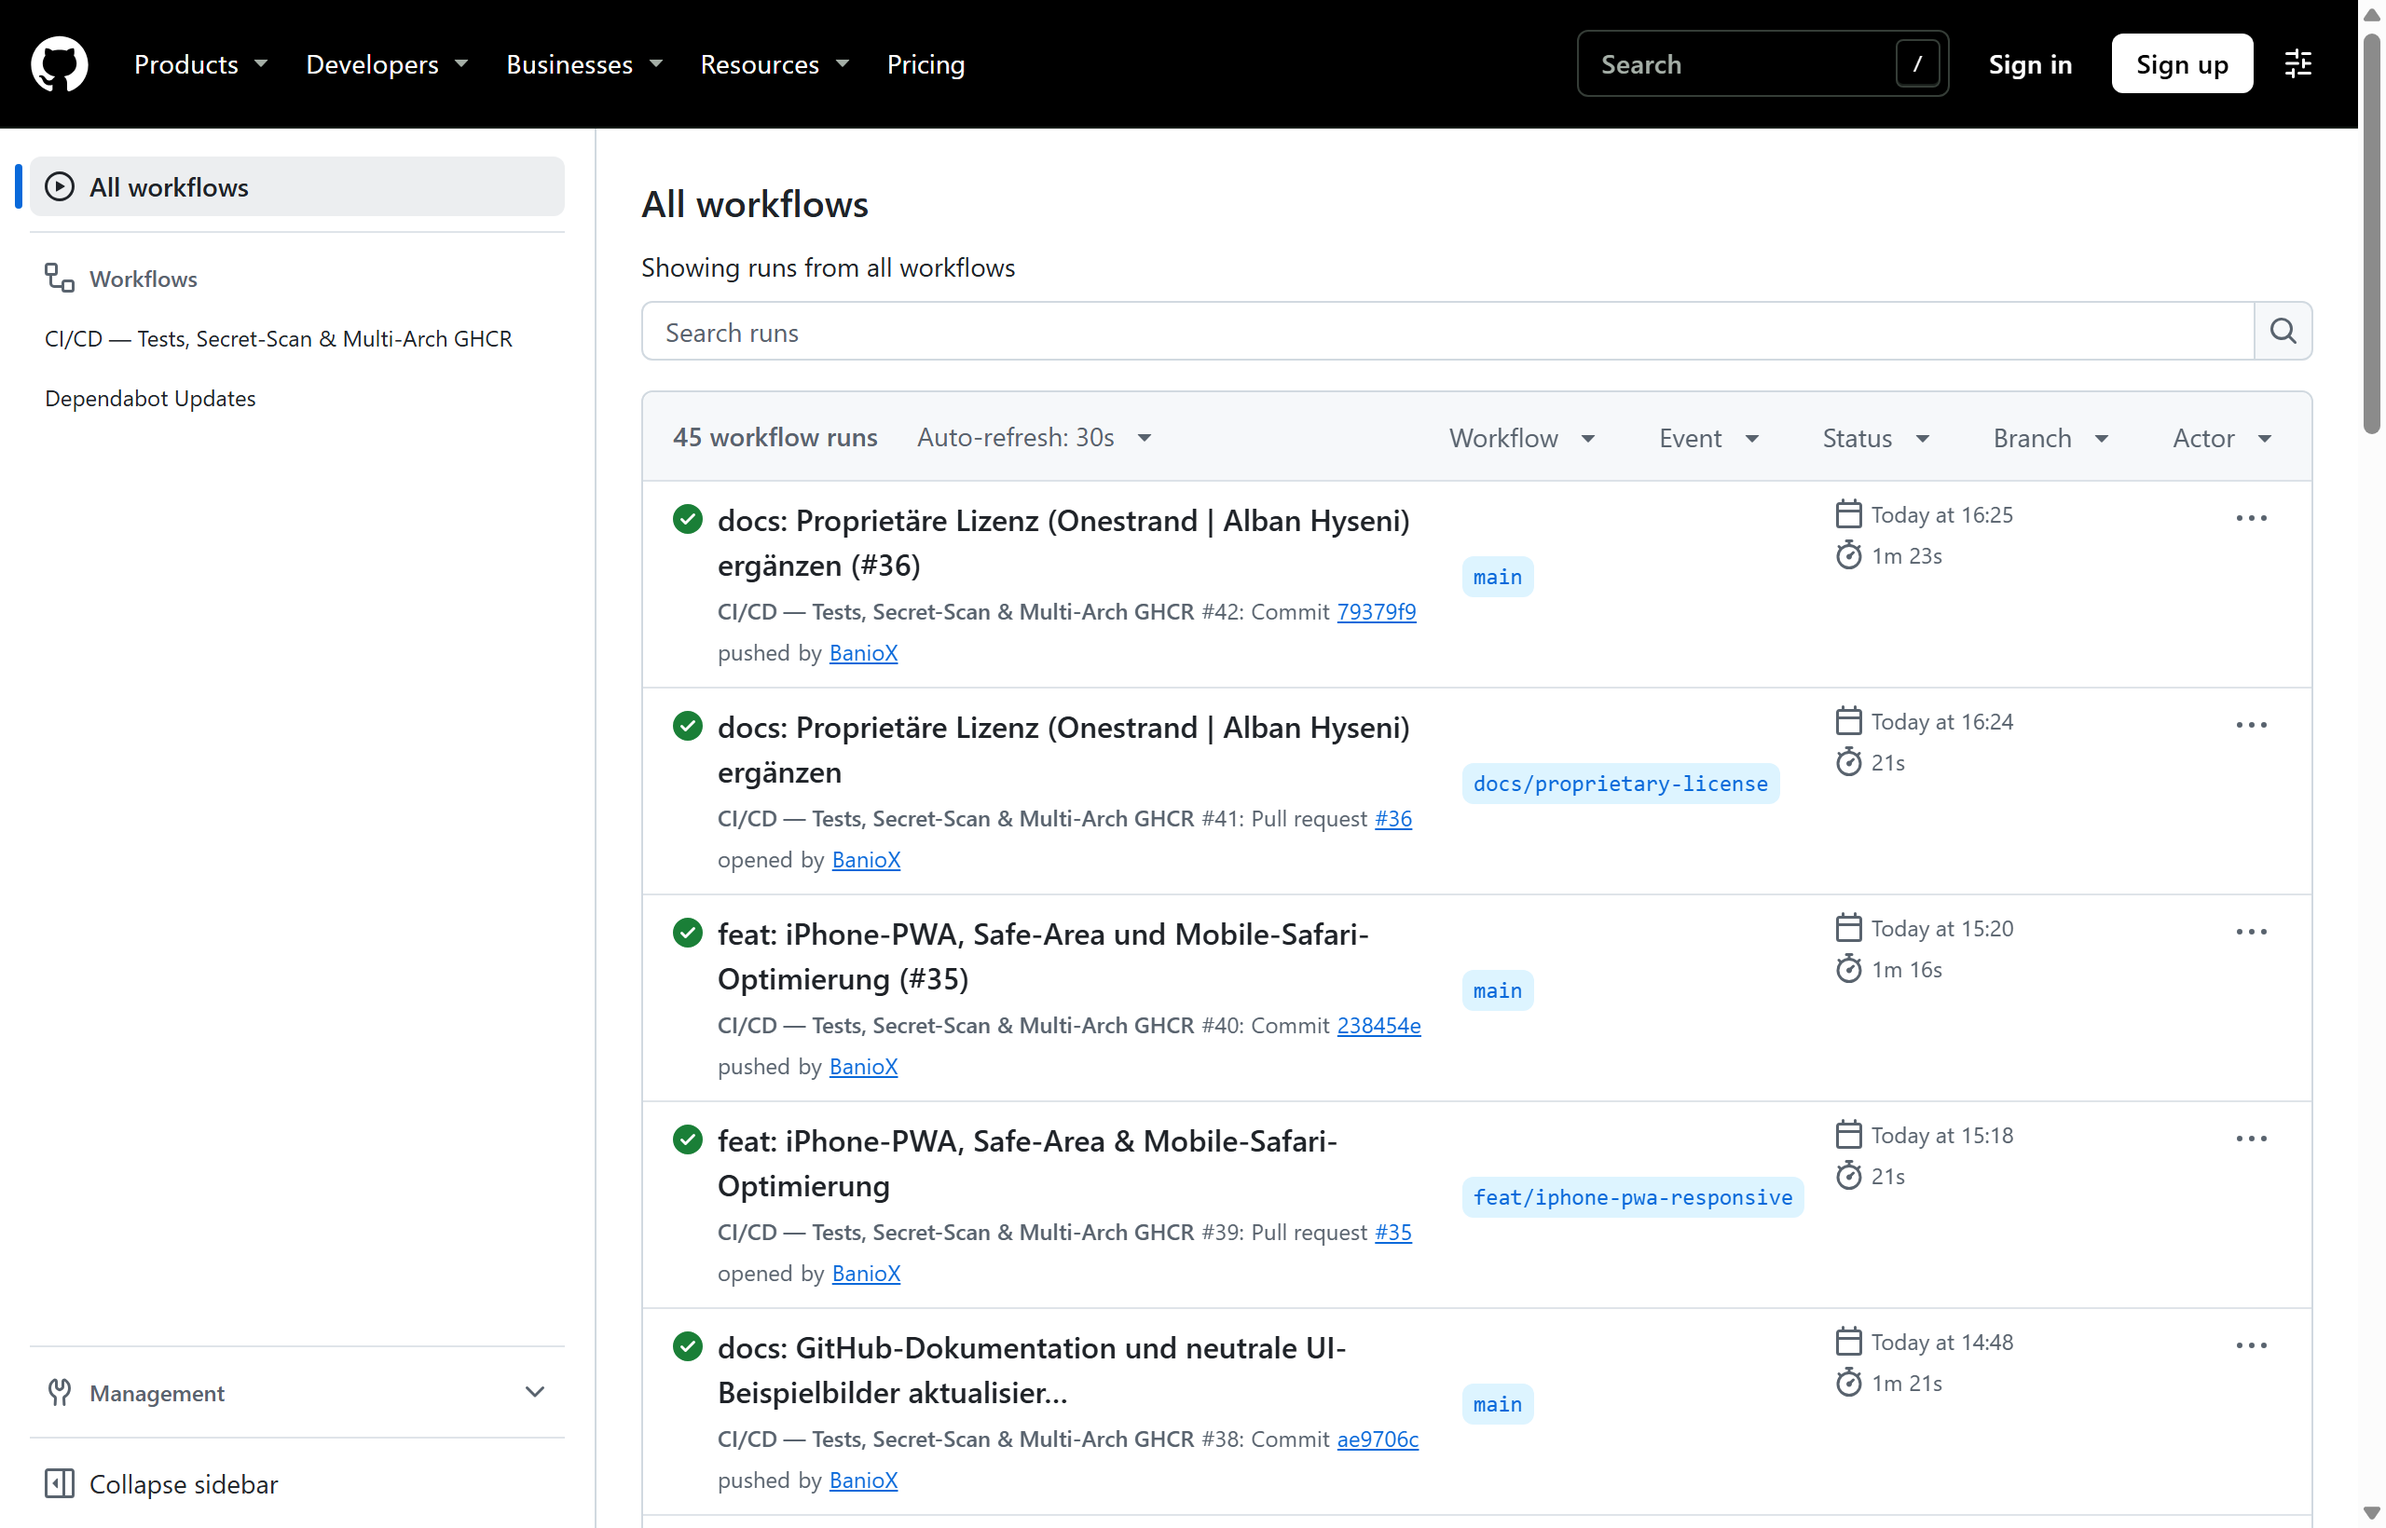
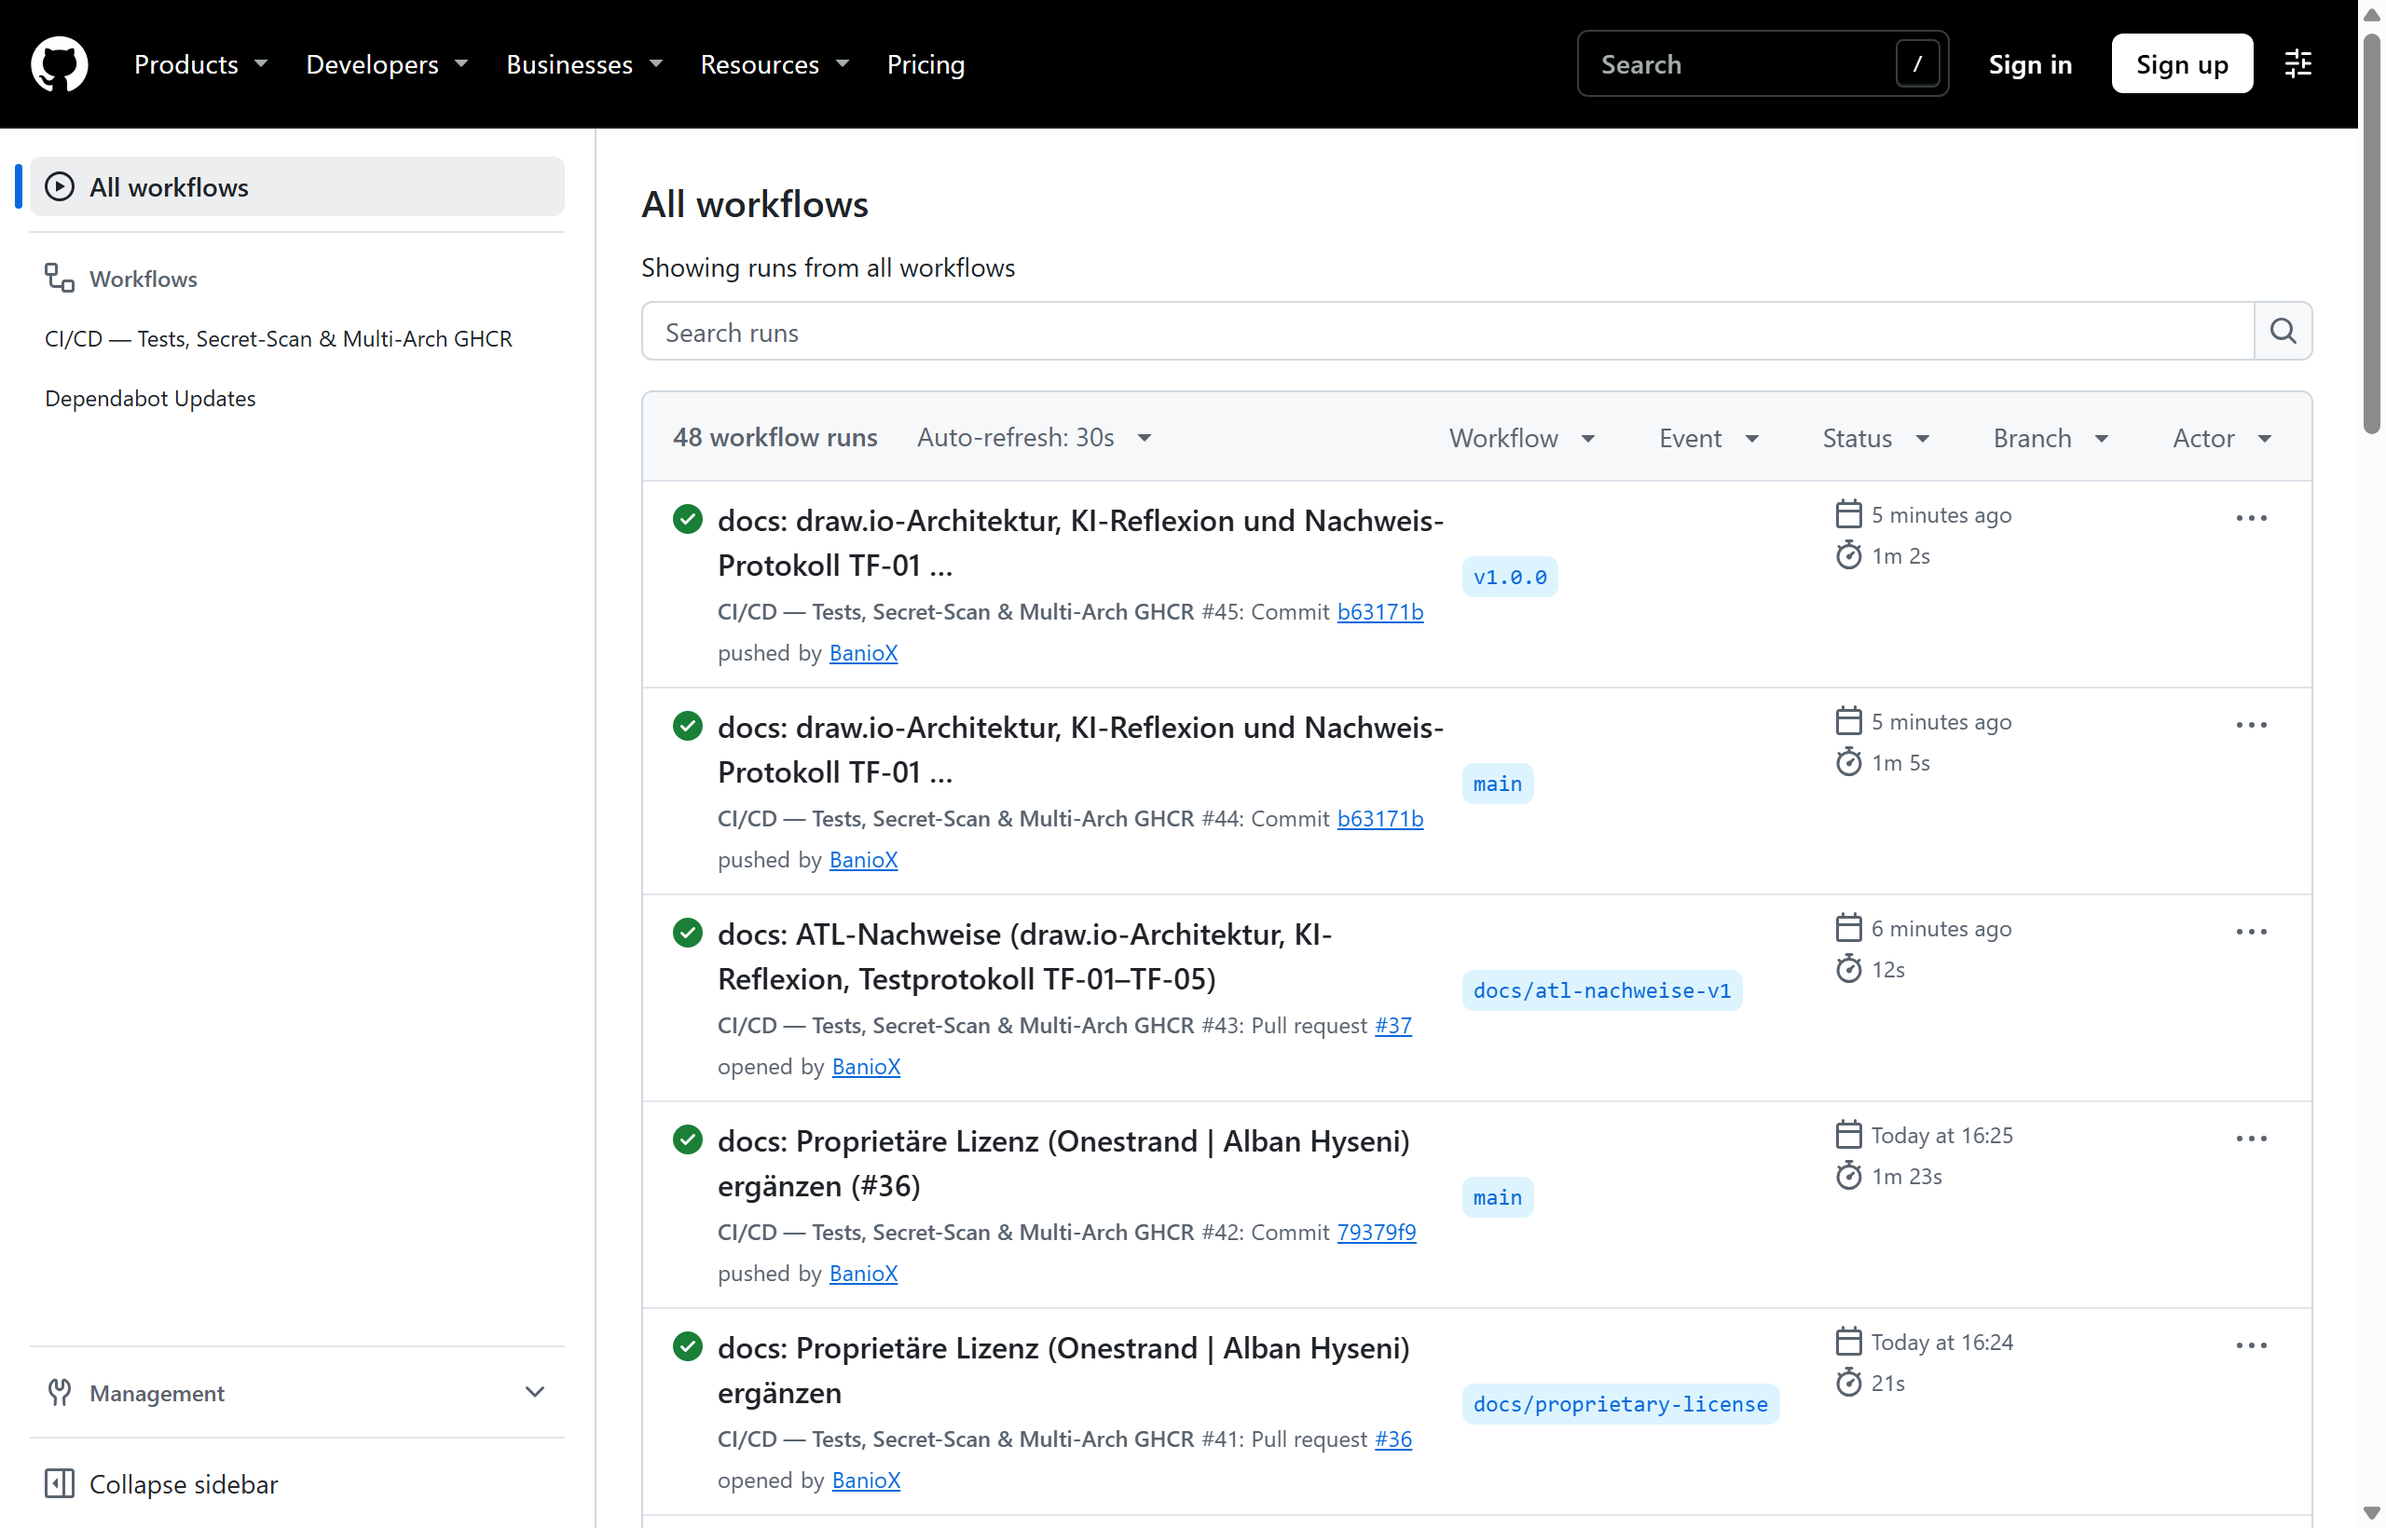
docs: TF-06 Drittpersonen-Nachweis (v1.0.0) und aktuelle Board-/CI-Belege ergänzen (#38)

diff --git a/docs/TESTKONZEPT_UND_PROTOKOLL.md b/docs/TESTKONZEPT_UND_PROTOKOLL.md
@@ -86,4 +86,4 @@
 | 5 | **TF-03:** Keine Secrets im Repo / Git-History | 26.11.2026 18:27 | `main` (`79379f9`, GitHub Actions Gitleaks) | `git ls-files .env` liefert leer; `.env.example` enthält nur Platzhalter (`HIER_EIGENES_PASSWORT_SETZEN`); Gitleaks-Scan über die gesamte Git-History meldet **0 Leaks**. | **Bestanden** | `git ls-files`, `.env.example` & Gitleaks-Job (`pass`, 6 s) |
 | 6 | **TF-04:** Aktiver Healthcheck (Normal & 503) | 26.11.2026 18:27 | `main` (`79379f9`, Laptop `localhost:3000/health`) | Normalfall: **HTTP 200** (`status: "ok"`, `db: "verbunden"`, `1 ms`). Nach `docker compose stop db`: **HTTP 503** (`status: "degraded"`, `db: "getrennt"`). Nach `docker compose start db`: automatischer Reconnect, wieder **HTTP 200** (`27 ms`) ohne App-Neustart. | **Bestanden** | `curl`-Protokoll `200 → 503 → 200` |
 | 7 | **TF-05:** Auto-Deploy nach Push auf `main` | 26.11.2026 14:49 & 15:21 | `da3d602 → ae9706c → 238454e → 79379f9` (Watchtower 30 s) | Nach PR-Merge auf `main` baute GitHub Actions das Multi-Arch-Image (`1m 16s`); Watchtower zog das neue Image ohne Handarbeit (`Update session completed failed=0 scanned=1 updated=1`) auf Laptop und Oracle-VM; `/health` zeigte sofort den neuen Commit-Hash ohne Datenverlust. | **Bestanden** | GitHub Actions Run `45837961714` & Watchtower-Log |
-| 8 | **TF-06:** Drittpersonen-Startbarkeit (`v1.0.0`) | 26.11.2026 | `ghcr.io/baniox/requirements-engine:v1.0.0` (frischer Clone) | *Wird unmittelbar nach dem Veröffentlichen des Release-Tags `v1.0.0` in einem sauberen temporären Verzeichnis ausgeführt und nachgetragen.* | **Ausstehend** | *folgt* |
+| 8 | **TF-06:** Drittpersonen-Startbarkeit (`v1.0.0`) | 26.11.2026 18:35 | `ghcr.io/baniox/requirements-engine:v1.0.0` (Multi-Arch `amd64/arm64`, frischer Clone) | Frischer `git clone` in leeren Temp-Ordner, `.env` aus Vorlage mit `APP_IMAGE_TAG=v1.0.0`, direkt `docker compose up -d` ohne Build: Alle 4 Container starteten innert 6–12 s (`healthy`); `GET /health` meldete **HTTP 200**, `version: "v1.0.0"`, `db: "verbunden"` (`0 ms`), `commit: "b63171b6..."`. | **Bestanden** | Multi-Arch Manifest `sha256:d9debe76...` & `TF-06` Live-Log |
